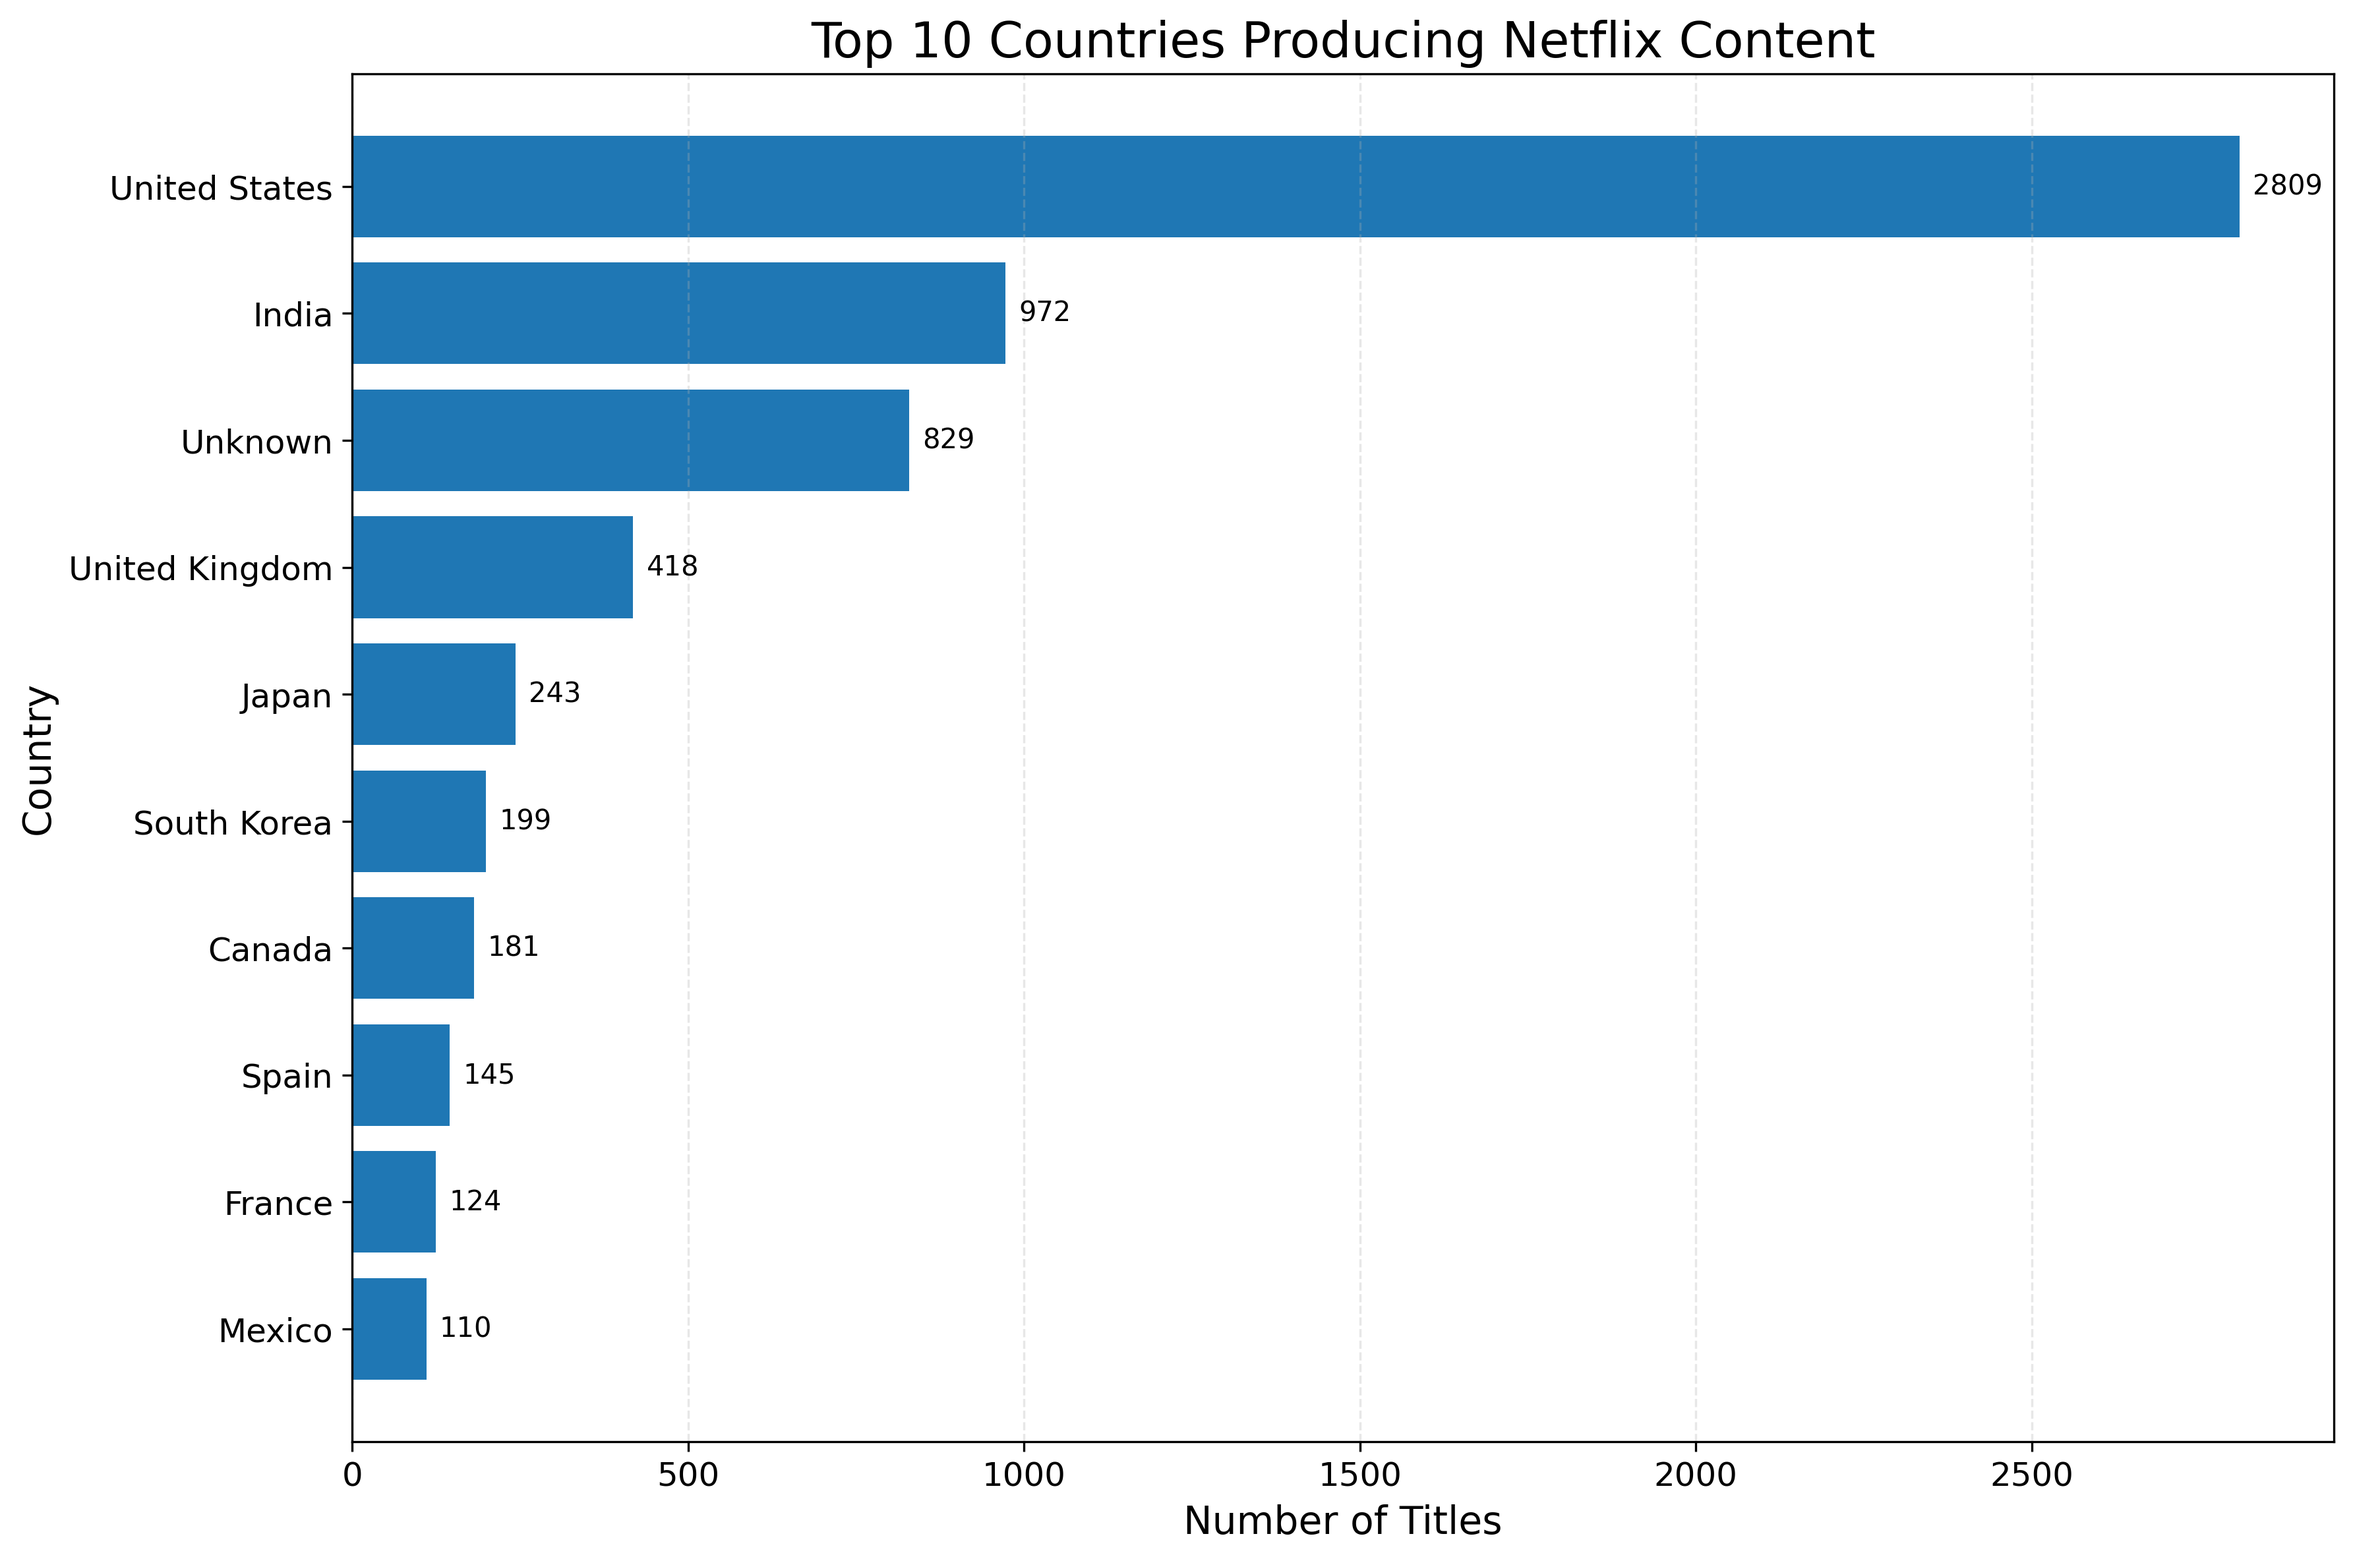
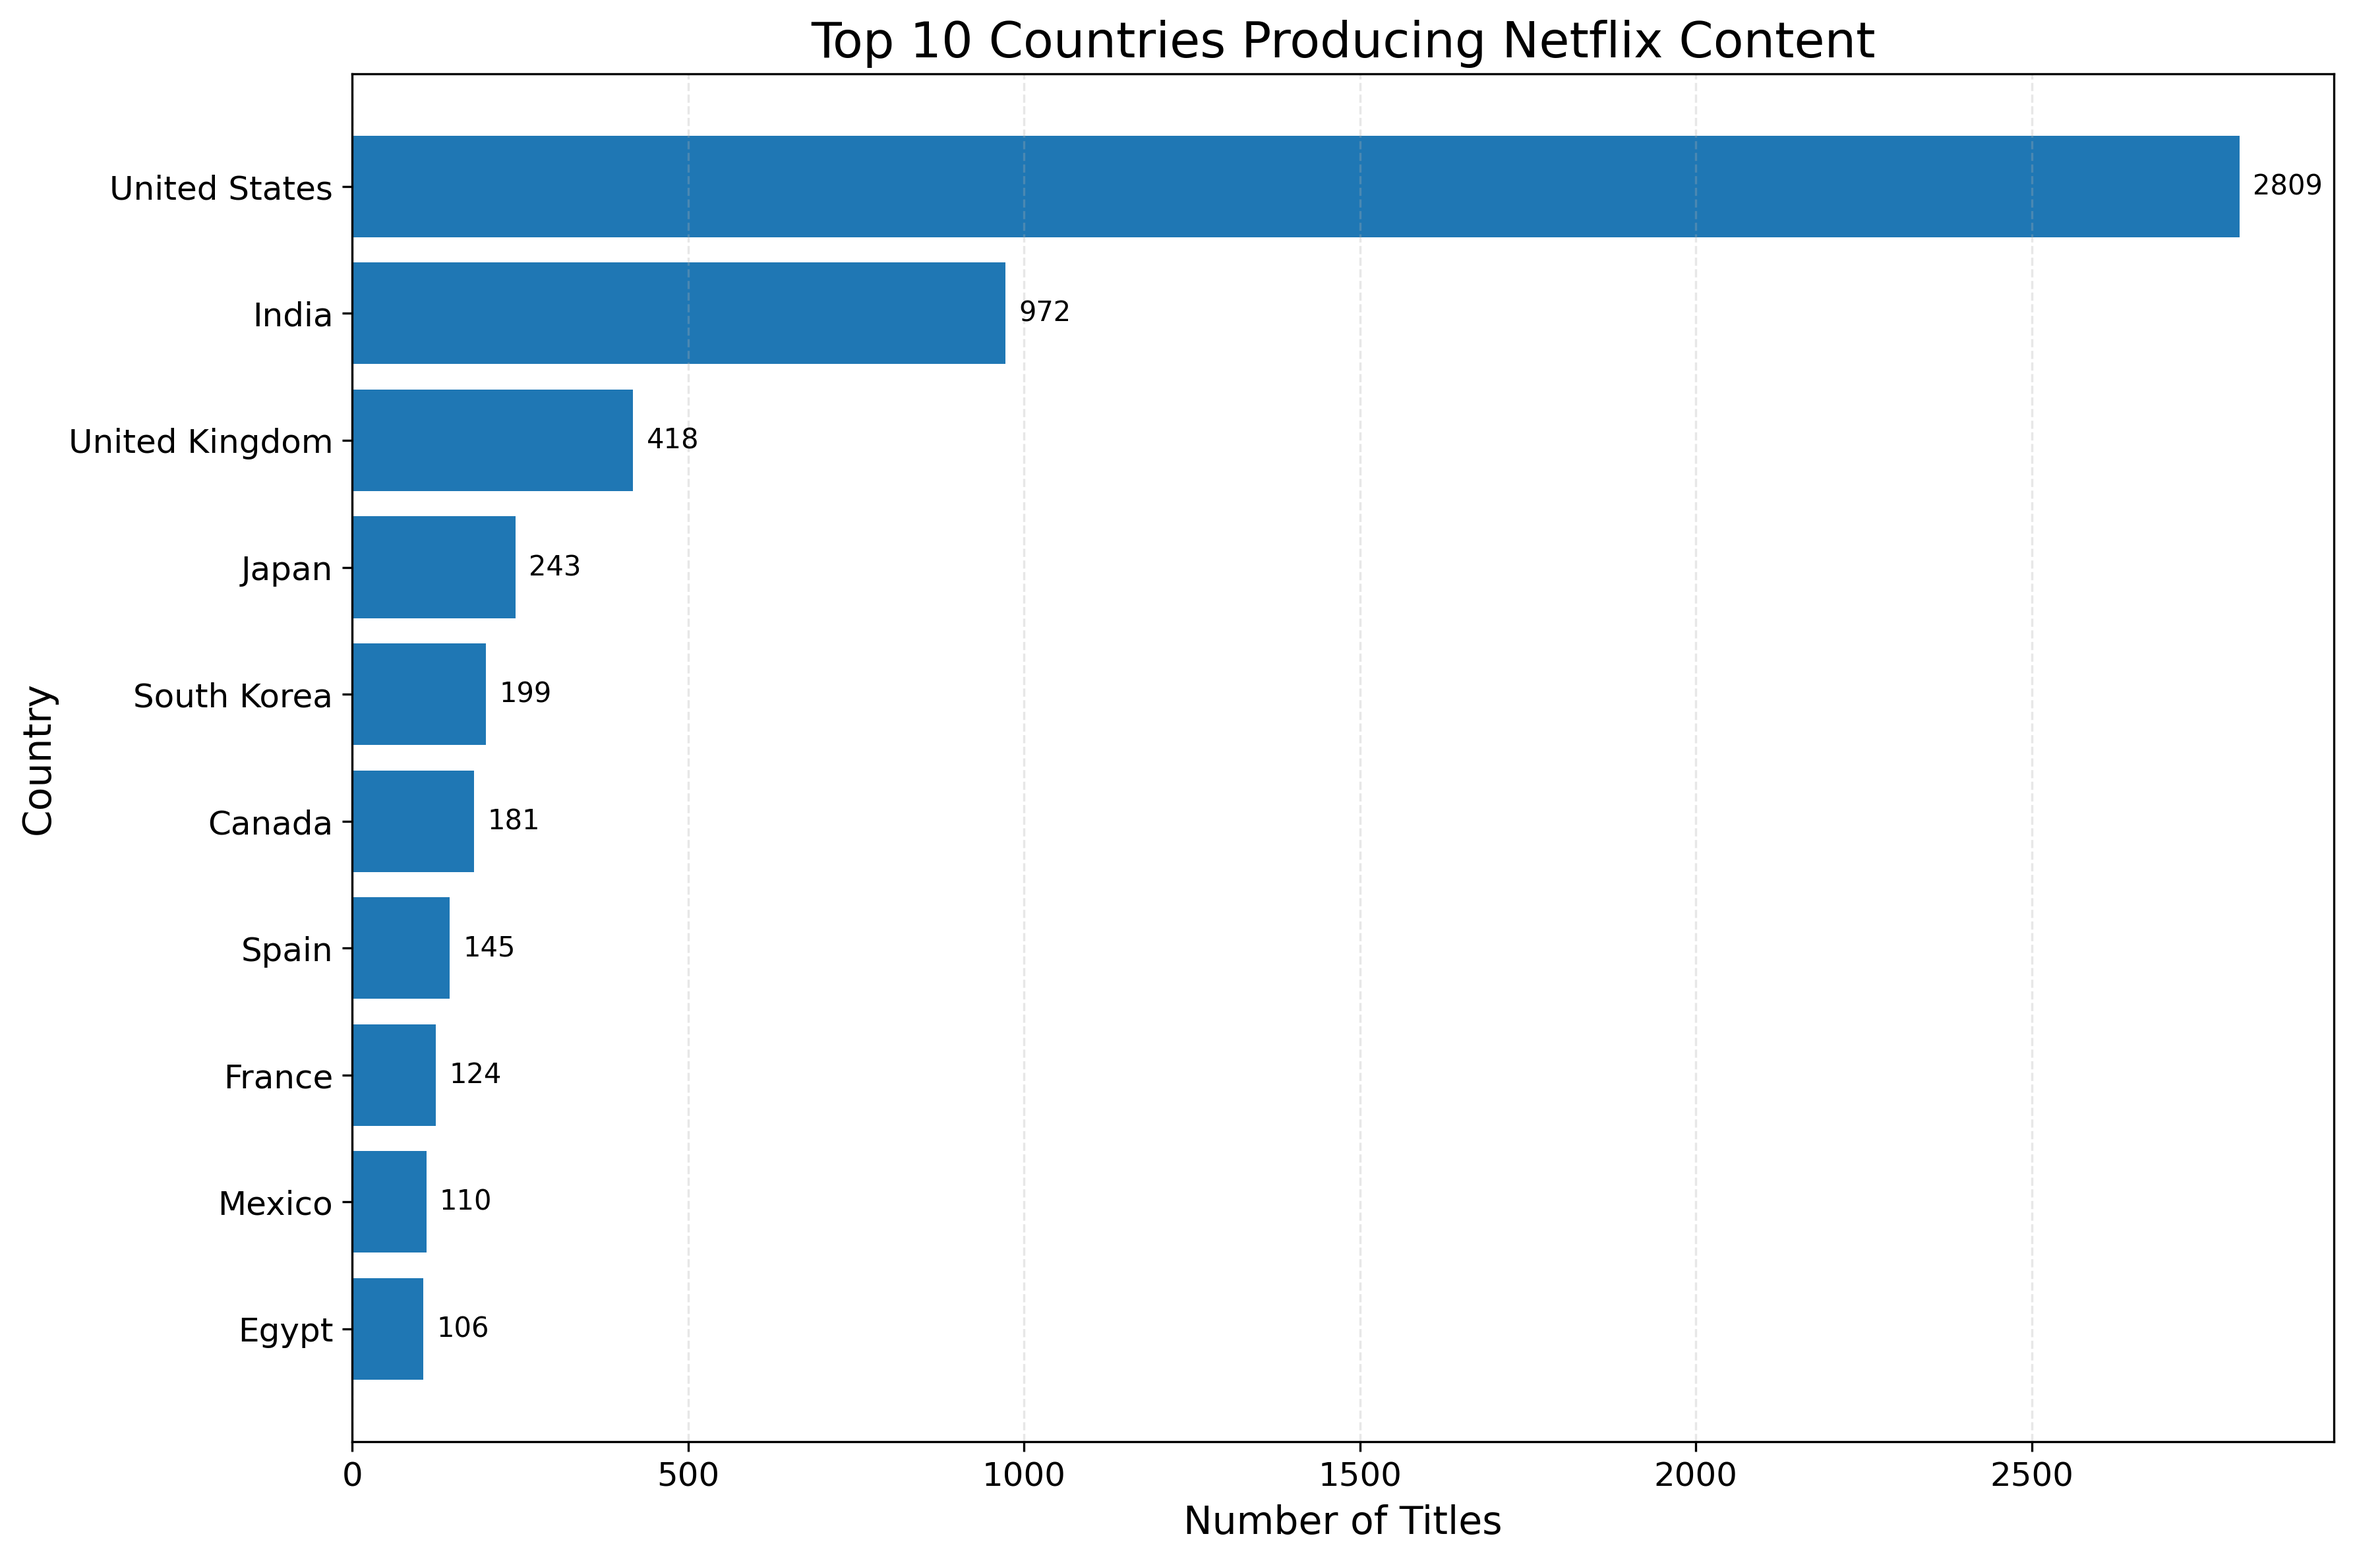
fix: drop Unknown in top countries

diff --git a/src/analyze_data.py b/src/analyze_data.py
@@ -4,8 +4,12 @@ def analyze_countries(df, top_n=10):
     content on Netflix.
     """
 
-    countries = df["country"]
-    top_countries = countries.value_counts().head(top_n)
+    country_counts = df["country"].value_counts()
+
+    if "Unknown" in country_counts:
+        country_counts = country_counts.drop("Unknown")
+
+    top_countries = country_counts.head(top_n)
 
     print(f"\nTop {top_n} Countries:")
 

diff --git a/src/plot_figures.py b/src/plot_figures.py
@@ -26,11 +26,6 @@ def plot_top_countries(df, top_n=10):
 
     _, ax = plt.subplots(figsize=(12, 8))
 
-    country_counts = df["country"].value_counts()
-
-    if "Unknown" in country_counts:
-        country_counts = country_counts.drop("Unknown")
-
     # Get top countries data
     top_countries = analyze.analyze_countries(df, top_n)
 
